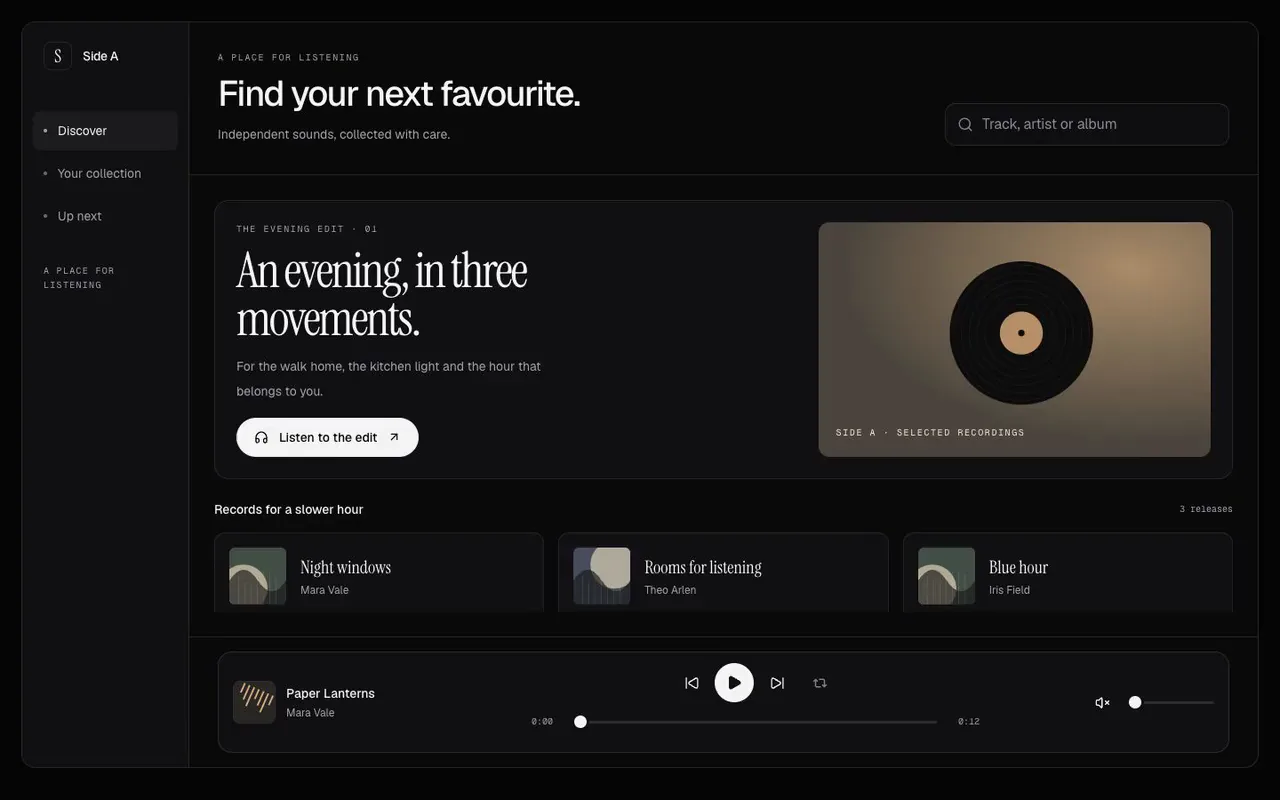
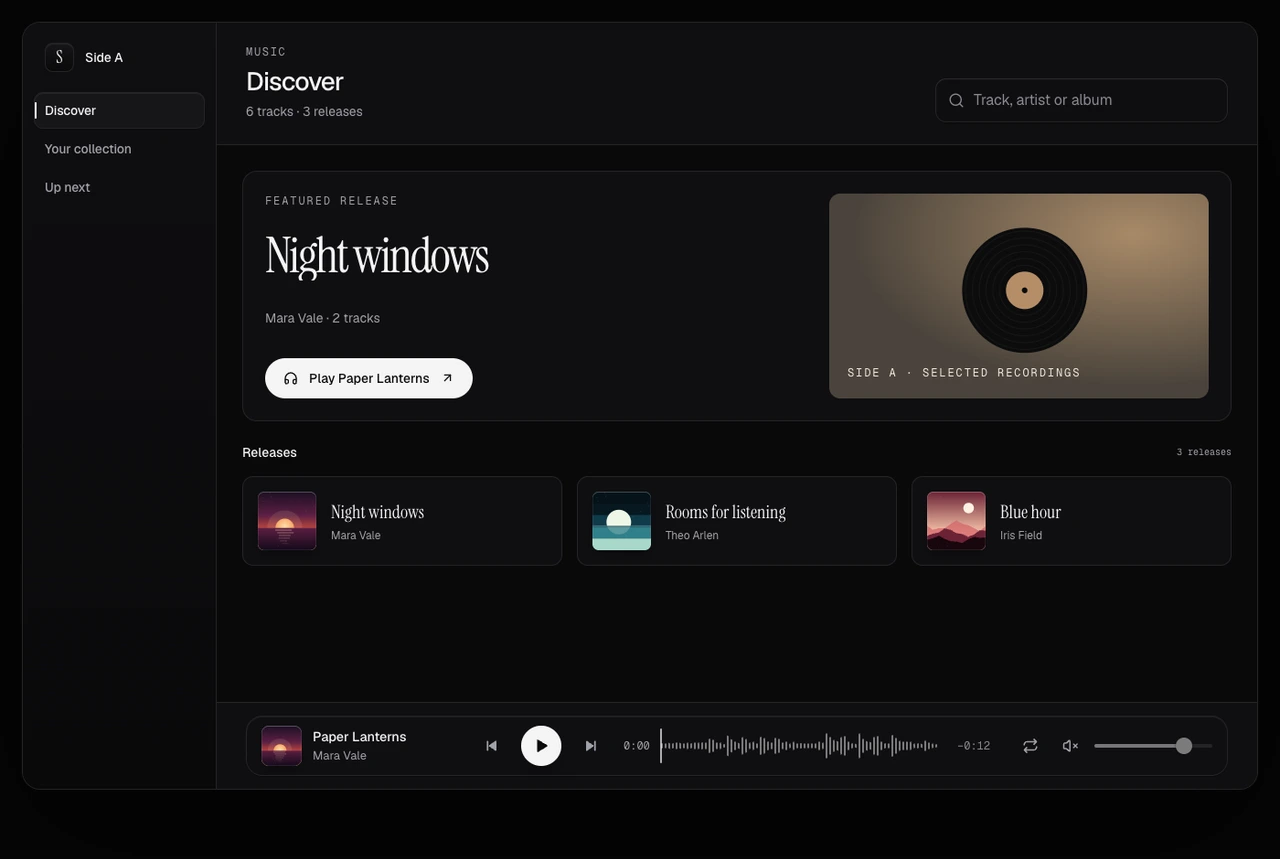
review: verify music workflows and refresh the current poster

diff --git a/docs/review/STATUS.md b/docs/review/STATUS.md
@@ -9,7 +9,7 @@ needs re-recording, whether its poster is current, and the state of its browser 
 - **Probe**: the `tests/browser/pro-50/<slug>.mjs` state, or another probe that covers it. Blank means no browser test
   was written in this review; those are the ones for a separate pass.
 
-Commerce, Fashion, Financial Report, Legal and Meetings Workspace have completed their block reviews.
+Commerce, Fashion, Financial Report, Legal, Meetings and Music Workspace have completed their block reviews.
 The preceding four-block checkpoint covers **all 65 browser suites across runs**: the complete run is **63/65**, followed
 by **2/2 complete port-corrected suites** without an environment override. All **94 exact metadata replays**
 pass. The only changes between browser runs are two legacy preview-port defaults; component sources and
@@ -28,9 +28,9 @@ The three diagnostic packages retain byte-identical runtime files. No manual dep
 Evidence is in `test-results/handoff-four-blocks-20261020/`; see the measured checkpoint in `HANDOFF_TASKS.md`.
 
 All eight final smaller components also have reviewed current films and posters. Fashion, Legal and Meetings have
-reviewed current block films and paired posters. Commerce and Financial Report retain their old films after
+reviewed current block films and paired posters. Commerce, Financial Report and Music retain their old films after
 guarded rejections; rejected raw evidence remains local. Legal's new take reaches its completion receipt after
-the recorder's scrolling-target correction. The remaining inventory is **6 blocks, 59 older probes and 120 films**.
+the recorder's scrolling-target correction. The remaining inventory is **5 blocks, 59 older probes and 121 films**.
 Allocation Chart needs a new film after its full-value readout changed.
 
 The 20 October table follow-up fixes offscreen reduced-motion figures remaining at zero. Initial and live
@@ -47,8 +47,7 @@ audits, all four reviewed captures and the registered source-fixture workflow pa
 root/all-eleven-block types and all 1,068 unit tests. Row Pause has since been wired to the real transport
 through its optional pauseRequest counter. Both source-fixture suites, twelve transport state audits and
 the two-theme Music row check pass with reviewed captures. Its unchanged 1,500ms regression now measures
-from trusted click dispatch, and still rejects the original source. The full Music review remains open;
-the remaining counts above are unchanged.
+from trusted click dispatch, and still rejects the original source. Music has since completed its full block review, as recorded below; its guarded film remains queued.
 
 ## Previous workspace/input checkpoint (19 October 2026)
 
@@ -407,3 +406,4 @@ See [the handoff checkpoint](HANDOFF_TASKS.md#8-final-release-checks) for revisi
 | `block-financial-report` | new | current | Financial Report now uses a compact period-specific workspace, exact headline and cost amounts, a real cost-detail anchor and persistent export feedback. Full currency values preserve the final minor unit at the safe-integer boundary, including negative pennies, across screen totals, table cells, allocation labels, CSV and print. Raw minor units retain numeric sorting and allocation weights; abbreviated chart summaries remain explicit. Keyboard period selection, empty and arriving reports, no costs, independent instances, native CSV/print, failed export retry and retired report/currency/brand/unmount replies pass its 43-mount source review, forty accessibility audits, six widths and 54 reviewed state/entrance captures. Long-amount phone checks and stable chart legend/focus regressions pass. A single allocation view has no redundant grouping chooser; the exact total/focused value uses one stable readout below the ring. The exact September replay reaches the visible export receipt with the £8,700.00 software line intact. Next workflow, controls, official audit and measured full-frame captures pass with strict registry, root/all-eleven-block types and all 1,066 tests. Public callbacks and Pro boundaries remain unchanged. Its reviewed paired Next poster is current. The film fails unchanged timing guards (source gap 22ms, delivery 649.70ms and moving-frame p95 24.42ms); the previous movie is retained and raw rejection evidence stays local. The four-block release checkpoint above covers this review. |
 | `block-legal-workspace` | current | current | Legal Workspace now uses compact current-matter chrome, a shared brand/reporting day and useful context counts. Its matter portfolio, obligation evidence and stamped document requests stay in retained panels. Empty and arriving contexts, unique IDs, keyboard navigation, concurrent writes in different matters, hidden failures, exact retry payloads, retained File identity, removed-matter late replies, independent instances, long phone copy and live reduced motion pass 63 source mounts, 82 accessibility audits, six widths and 96 reviewed state/entrance captures. Missing writers keep drafts available without inventing receipt; inbox snapshots protect retries from host mutation. The table keeps its cells outside disclosure buttons, and receipt/revision text remains readable. Invalid or impossible reference dates fall back once to a coherent UTC reporting day. Northline report evidence cites actual DOC-404; Harbour's handover cites accepted DOC-403. The exact metadata replay records the report and settles on its completion stamp. Next workflow, controls, official audit and six measured Next/production states pass with strict registry, root/all-eleven-block types and all 1,066 tests. Public callback and licence boundaries remain unchanged. Its reviewed 6.0s film and paired opening poster retain the complete 820px workspace in 1400×940 source framing, showing typed DOC-404 evidence and the settled Done stamp and receipt. Maximum source gap is 29ms, changed-source delivery is 62.66ms and moving-frame p95 is 17.81ms, with no stalls and all guards retained. The earlier rejected native take remains archived. The four-block release checkpoint above covers this review. |
 | `block-meetings-workspace` | current | current | Meetings Workspace now composes a full-width agenda, a retained host-owned room and independent notes with compact view names. Phone Join actions name the selected meeting, the call stage uses the accepted title, and notes retain their original meeting ID, including arriving opaque IDs. Empty notes and normalized day/meeting identities stay consistent. Pending join, leave and media actions await their host promises; rejected and retired requests preserve the current session, drafts and newer outside focus. Its 51-mount source review, forty accessibility audits and sixty reviewed state/entrance captures pass. Four fresh coarse-pointer mounts, twelve accessibility audits and twelve reviewed phone captures cover the shared 44px controls and narrow header correction. All nine Next block workflows, nine exact metadata replays, theme control, official audit and twelve measured Next/source framing captures pass with unchanged source hashes. Strict registry, root/all-eleven-block types and all 1,068 tests pass. The optional timezone prop labels host-supplied times; existing callback and Pro boundaries remain intact. Its reviewed 3.7s film and paired opening poster keep the complete 840px workspace at 1400x940, ending with Mara spotlighted and the hand raised. Source gap is 25ms, delivery 34.95ms and moving-frame p95 19.18ms, with no stalls and unchanged guards. |
+| `block-music-workspace` | new | current | Music Listening Workspace now uses compact view names, the actual featured release and track, a shared vinyl-study brand and accurate release counts. Queue indicators share valid local IDs; blank initial IDs are omitted, and returning tracks cannot reclaim a retired current selection. Missing audio has an explicit unavailable state. Real playback survives navigation and queue edits; row Pause, paused next/previous, keyboard likes, album search, empty/arriving data, long phone metadata and independent instances pass. Its 39-mount source review, forty accessibility audits and all 54 reviewed captures pass, including 32 byte-identical references. Four coarse-pointer mounts, twelve accessibility audits and twelve reviewed captures retain 44px controls in all phone views. The Next workflow, exact four-action metadata replay, complete audio suite, theme control, official audit and ten matching source/Next framing captures pass with frozen sources. Strict registry, root/all-eleven-block types and all 1,068 tests pass. Callback contracts and Pro boundaries remain intact. Its reviewed settled Next poster is current. The 4.75s film reaches the paused three-track queue but fails the unchanged delivery guard at 152.02ms. Source gap is 22ms and moving-frame p95 is 22.31ms, with no source or moving-frame stalls over 100ms. The old movie remains published; the rejected candidate, actual frames and timing evidence remain local. |

diff --git a/docs/review/HANDOFF_TASKS.md b/docs/review/HANDOFF_TASKS.md
@@ -6,6 +6,8 @@ and how to know it's done. Pick any of them up independently. Background, briefs
 
 ## Follow-up progress (17–20 October 2026)
 
+- Task 7 (20 October): Music Listening Workspace now uses compact view names, the actual featured release and track, a shared vinyl-study brand and accurate release counts. Queue indicators share valid local IDs; blank initial IDs are omitted, and returning tracks cannot reclaim a retired current selection. Missing audio has an explicit unavailable state. Real playback survives navigation and queue edits; row Pause, paused next/previous, keyboard likes, album search, empty/arriving data, long phone metadata and independent instances pass. Its 39-mount source review, forty accessibility audits and all 54 reviewed captures pass, including 32 byte-identical references. Four coarse-pointer mounts, twelve accessibility audits and twelve reviewed captures retain 44px controls in all phone views. The Next workflow, exact four-action metadata replay, complete audio suite, theme control, official audit and ten matching source/Next framing captures pass with frozen sources. Strict registry, root/all-eleven-block types and all 1,068 tests pass. Callback contracts and Pro boundaries remain intact. Its reviewed settled Next poster is current. The 4.75s film reaches the paused three-track queue but fails the unchanged delivery guard at 152.02ms. Source gap is 22ms and moving-frame p95 is 22.31ms, with no source or moving-frame stalls over 100ms. The old movie remains published; the rejected candidate, actual frames and timing evidence remain local. Five blocks, 59 older probes and 121 films remain. The next complete batch release checkpoint remains pending.
+
 - Music dependency follow-up (20 October): Track List now follows live reduced-motion changes, cancels interrupted entrances and retires filtered rows immediately. The original Music capture retained four invisible rows and empty space after five seconds; the strengthened regression still rejects it at its unchanged 1,500ms deadline. The 19-mount component review, eight accessibility audits and all 22 reviewed captures pass. The final typed source also passes both-theme filtering, keyboard and real pointer reordering, six fresh accessibility states, two exact Music regression captures, the complete registered audio suite, strict registry, root/all-eleven-block types and all 1,068 unit tests. Music's broader source draft passes 39 mounts and forty accessibility audits; all 54 captures are reviewed, including 32 byte-identical references. The full Music review still awaits Next integration and its film. Counts remain six blocks, 59 older probes and 120 films.
 
 - Music pause follow-up (20 October): track-row Pause now reaches the real audio element through Audio Transport's optional `pauseRequest` counter. The native clock keeps its position, ordinary source changes stay paused and pause wins over a simultaneous play request. Two transport mounts cover both layouts/themes with twelve accessibility audits and twelve reviewed captures; Music's two-theme row check and both reviewed captures pass too. The complete registered audio and Music source-fixture suites, strict registry, root/all-eleven-block types and all 1,068 unit tests pass. The Music regression now samples at the trusted native click, preserving its 1,500ms deadline and guard against natural ending. A controlled 1,847ms actionability wait rejects the former pre-click measurement while the actual pause follows dispatch by 4ms; the original Music source still fails the corrected deadline. Original failures and the unsuccessful moving-target diagnostic remain archived. All three reproduced Music bugs are fixed; its full block review and counts remain open.
@@ -487,6 +489,7 @@ Slugs:
 `chart-allocation`
 `block-financial-report`
 `block-commerce-workspace`
+`block-music-workspace`
 `date-booking-slots`
 `onboarding-setup-checklist`
 `devtools-request-waterfall`
@@ -621,7 +624,7 @@ All nine parked rebuilds are shipped in both repos. Their original `_wip/<slug>`
 | finance-budget-variance | Completed 17 October: Next probe, dark/light accessibility, responsive and entrance/state captures, live demo and refreshed poster pass. |
 | finance-cashflow-dashboard | Completed 17 October: weekly balance and in/out bars, movable payments, independent pending saves, invalid-data guards, selected-week list geometry, Next probe/demo, both-theme accessibility, responsive/state/entrance captures and refreshed poster pass. |
 
-## 7. Continue the review (6 blocks)
+## 7. Continue the review (5 blocks)
 
 Same process as the 202 already done: hold each to the first ~100 components' standard. Briefs:
 `docs/review/REVIEW_BRIEF.md`, `docs/review/SUITE_BRIEF.md` for industry components, suite languages in
@@ -667,12 +670,11 @@ reference; the reviewed dark capture differs only in eight pixels around its Pai
 registry, root/eleven-block types and all 1,066 unit tests pass. The private fix is `87da4af`. The full
 Commerce completed its full review with this dependency; ten other blocks remain open.
 
-- **Commerce, Fashion, Financial Report, Legal and Meetings Workspace** are reviewed. Keep these blocks compatible with their rebuilt parts.
+- **Commerce, Fashion, Financial Report, Legal, Meetings and Music Workspace** are reviewed. Keep these blocks compatible with their rebuilt parts.
 - **Smaller components** (#151–179) are reviewed.
-- **Blocks**, after their parts: six of the eleven published `block-*` components remain. Commerce, Fashion, Financial Report, Legal and Meetings Workspace are reviewed. Many parts changed their look and some their props;
+- **Blocks**, after their parts: five of the eleven published `block-*` components remain. Commerce, Fashion, Financial Report, Legal, Meetings and Music Workspace are reviewed. Many parts changed their look and some their props;
   re-check each block composes well with the rebuilt parts and still reads as one product. The earlier count of 12 was stale: both source repositories and all published `kind: "block"` metadata contain these eleven, with every declared dependency available.
 
-`block-music-workspace`,
 `block-people-workspace`, `block-saas-dashboard`, `block-saas-landing`,
 `block-team-workspace`, `block-workspace-settings`.
 
